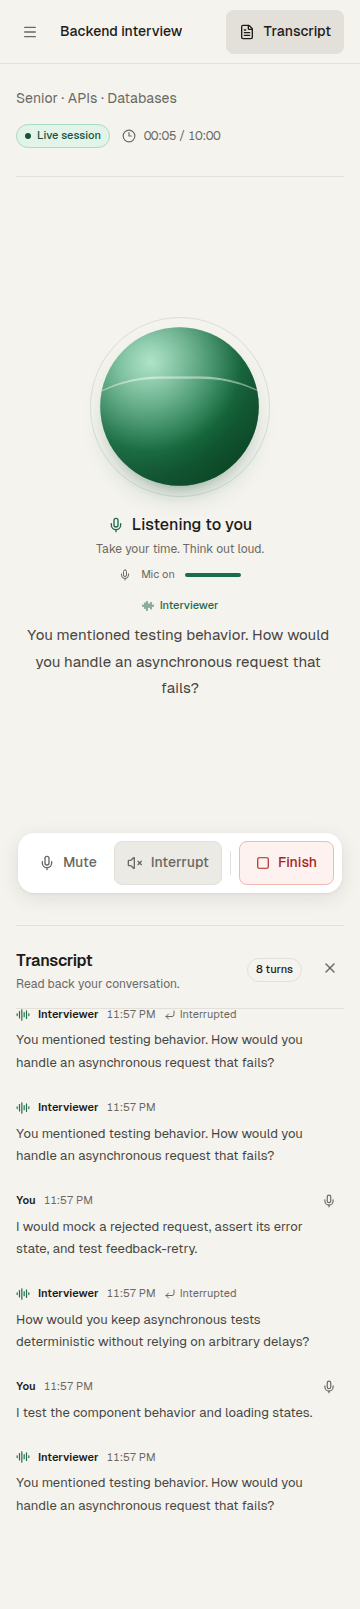
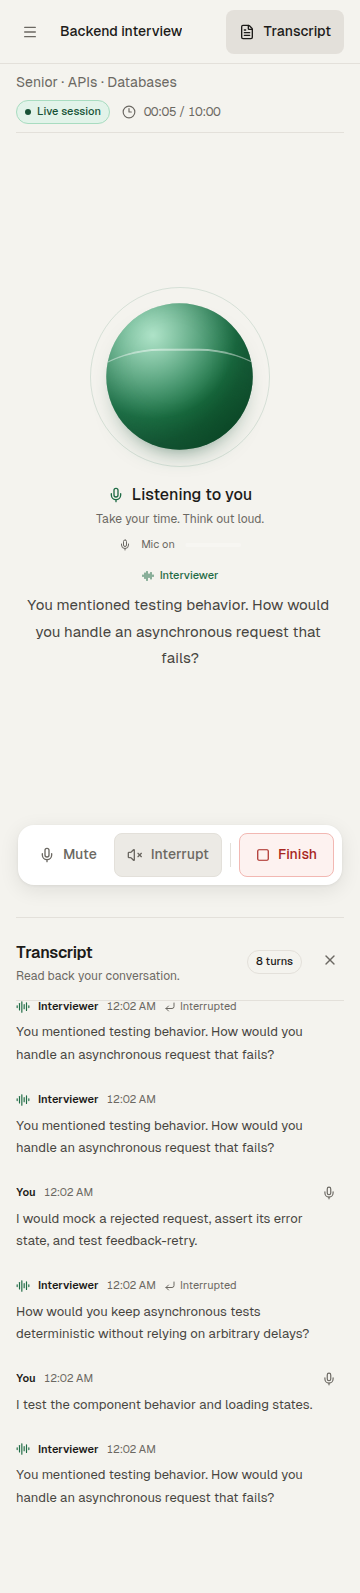
Remove stacked spacing above the interview stage

diff --git a/apps/web/app/interviews/[id]/page.tsx b/apps/web/app/interviews/[id]/page.tsx
@@ -176,6 +176,7 @@ export default function InterviewPage() {
         interview && (
           <>
             <PageIntro
+              className="mb-0 min-h-12 gap-y-2 border-b py-2 sm:mb-0"
               description={`${interview.level} · ${interview.topics.join(" · ")}`}
               action={
                 <div className="flex flex-wrap items-center gap-3">
@@ -299,12 +300,12 @@ export default function InterviewPage() {
             ) : (
               <div
                 className={cn(
-                  "grid min-h-[calc(100dvh-176px)] items-start gap-8 border-t pt-6",
+                  "grid min-h-[calc(100dvh-148px)] items-start gap-8 pt-4 sm:min-h-[calc(100dvh-128px)]",
                   transcriptOpen &&
                     "lg:grid-cols-[minmax(0,1fr)_minmax(280px,0.8fr)]",
                 )}
               >
-                <div className="flex min-h-[calc(100dvh-208px)] min-w-0 flex-col items-center">
+                <div className="flex min-h-[calc(100dvh-164px)] min-w-0 flex-col items-center sm:min-h-[calc(100dvh-144px)]">
                   <div className="flex w-full flex-1 flex-col items-center justify-center py-2">
                     <VoiceVisual
                       status={state.status}

diff --git a/apps/web/components/common.tsx b/apps/web/components/common.tsx
@@ -10,6 +10,7 @@ import {
 } from "lucide-react";
 import Link from "next/link";
 import type { Interview } from "@repo/shared";
+import { cn } from "@/lib/utils";
 import { formatDate, interviewLink } from "@/lib/api";
 import { Button } from "@/components/ui/button";
 import { Badge } from "@/components/ui/badge";
@@ -38,12 +39,19 @@ import {
 export function PageIntro({
   description,
   action,
+  className,
 }: {
   description?: string;
   action?: React.ReactNode;
+  className?: string;
 }) {
   return (
-    <div className="mb-7 flex flex-wrap items-center justify-between gap-4 sm:mb-8">
+    <div
+      className={cn(
+        "mb-7 flex flex-wrap items-center justify-between gap-4 sm:mb-8",
+        className,
+      )}
+    >
       {description && (
         <p className="max-w-[65ch] text-sm text-muted-foreground">
           {description}

diff --git a/apps/web/components/workspace.tsx b/apps/web/components/workspace.tsx
@@ -236,7 +236,7 @@ export function Workspace({
           className={cn(
             "min-w-0 outline-none",
             voice
-              ? "px-4 py-6 sm:px-8"
+              ? "px-4 pb-4 sm:px-8"
               : "px-4 py-7 sm:px-6 sm:py-9 lg:px-8 xl:px-10",
           )}
         >

diff --git a/DESIGN.md b/DESIGN.md
@@ -390,7 +390,7 @@ Regular workspace content is centered within (1160px), with horizontal padding p
 
 Overview metrics become three columns at (640px); role shortcuts become three columns at (1024px). Setup adds a (300px) summary column at (1280px). History keeps the interview and status visible, adds experience at (1024px), and places the date in its own column at (1100px); below that the date remains beneath the interview label. Landing becomes a two-column layout at (1024px), while authentication reveals its supporting column at the same breakpoint.
 
-The live interview centers its voice stage in the remaining workspace width. Its column has a minimum height of `calc(100dvh - 208px)` and places the dock below a flexible centered stage. The visual uses `clamp(144px, min(50vw, calc(100dvh - 550px)), 264px)`, adapting to both width and height. Current captions remain within (540px). The dock is in document flow, so short screens can scroll without covering the stage or controls.
+The live interview centers its voice stage in the remaining workspace width. Its column has a minimum height of `calc(100dvh - 164px)` on mobile and `calc(100dvh - 144px)` from 640px and places the dock below a flexible centered stage. The visual uses `clamp(144px, min(50vw, calc(100dvh - 550px)), 264px)`, adapting to both width and height. The voice page has no top padding. A compact, bordered session-details row sits directly below the top bar, with 16px before the stage and no stacked section margins. Current captions remain within (540px). The dock is in document flow, so short screens can scroll without covering the stage or controls.
 
 Touch controls keep at least (44px) target height on small screens and coarse pointers, including icon actions and the caption/transcript controls. Compact (32px / 36px) variants are confined to larger fine-pointer layouts. Form choices and accordion triggers retain (44px) minimum height.
 
